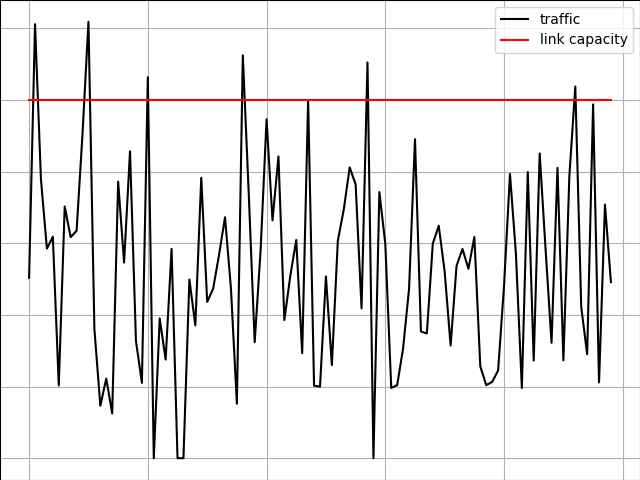
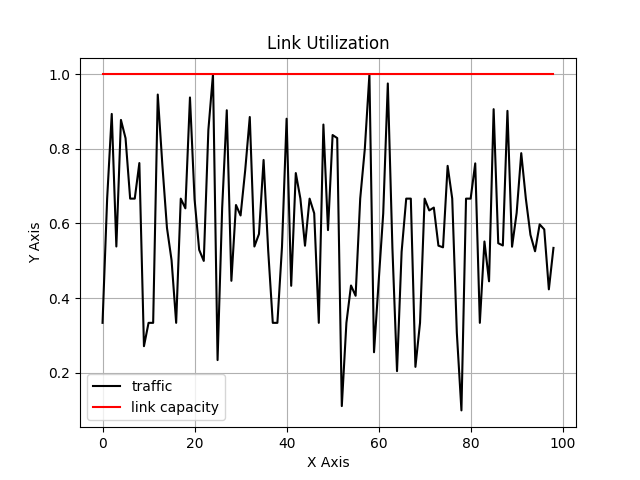
SIMPLE_GCRA V2.1 (2024925) Modify the detail and data

diff --git a/Simulation/Quelle/python/module_test.py b/Simulation/Quelle/python/module_test.py
@@ -102,8 +102,8 @@ def line_chart_tenants():
     plt.plot([index for index in range(len(data))], [float(row[2]) for row in data], linestyle='-', color='r', label='C')
 
     plt.title('Different tenants')
-    plt.xlabel('X Axis')
-    plt.ylabel('Y Axis')
+    plt.xlabel('Timestamp')
+    plt.ylabel('Traffic')
     plt.legend()
     plt.grid(True)
 
@@ -126,8 +126,8 @@ def line_chart_tenant(index):
     plt.plot([index for index in range(len(data))], [160 for row in data], linestyle='-', color='yellow', label='upper bound')
 
     plt.title('Tenant Traffic :'+label)
-    plt.xlabel('X Axis')
-    plt.ylabel('Y Axis')
+    plt.xlabel('Timestamp')
+    plt.ylabel('Traffic')
     plt.legend()
     plt.grid(True)
 
@@ -139,8 +139,8 @@ def line_chart_traffic():
     plt.plot([index for index in range(len(data))], [link_capacity for row in data], linestyle='-', color='r', label='link capacity')
 
     plt.title('Link traffic')
-    plt.xlabel('X Axis')
-    plt.ylabel('Y Axis')
+    plt.xlabel('Timestamp')
+    plt.ylabel('Traffic')
     plt.legend()
     plt.grid(True)
 
@@ -151,9 +151,9 @@ def line_chart_utilization():
     plt.plot([index for index in range(len(data))], [float(row[4]) for row in data], linestyle='-', color='black', label='traffic')
     plt.plot([index for index in range(len(data))], [1 for row in data], linestyle='-', color='r', label='link capacity')
 
-    plt.title('Link traffic')
-    plt.xlabel('X Axis')
-    plt.ylabel('Y Axis')
+    plt.title('Link Utilization')
+    plt.xlabel('Timestamp')
+    plt.ylabel('Utilization')
     plt.legend()
     plt.grid(True)
 
@@ -169,18 +169,22 @@ def analyzeTraffic(data):
             max = float(row[4])
         mean_traffic += float(row[3])
         mean_utilization += float(row[4])
-    print("Max utilization = {:12f}".format(max))
+    mean_traffic = mean_traffic/len(data)
+    mean_utilization = mean_utilization/len(data)
+    print("Max  utilization = {:12f}".format(max))
+    print("Mean traffic     = {:12f}".format(mean_traffic))
+    print("Mean utilization = {:12f}".format(mean_utilization))
 
 # for index in range(time_interval):
 #     drawATimestampPicture(index)
 # generateTheGIF(IMAGE_FOLDER_PATH, GIF_PATH)
 
-line_chart_tenants()
-line_chart_tenant(0)
-line_chart_tenant(1)
-line_chart_tenant(2)
+# line_chart_tenants()
+# line_chart_tenant(0)
+# line_chart_tenant(1)
+# line_chart_tenant(2)
 
-# line_chart_traffic()
-# line_chart_utilization()
+line_chart_traffic()
+line_chart_utilization()
 
-analyzeTraffic
+analyzeTraffic(data)
